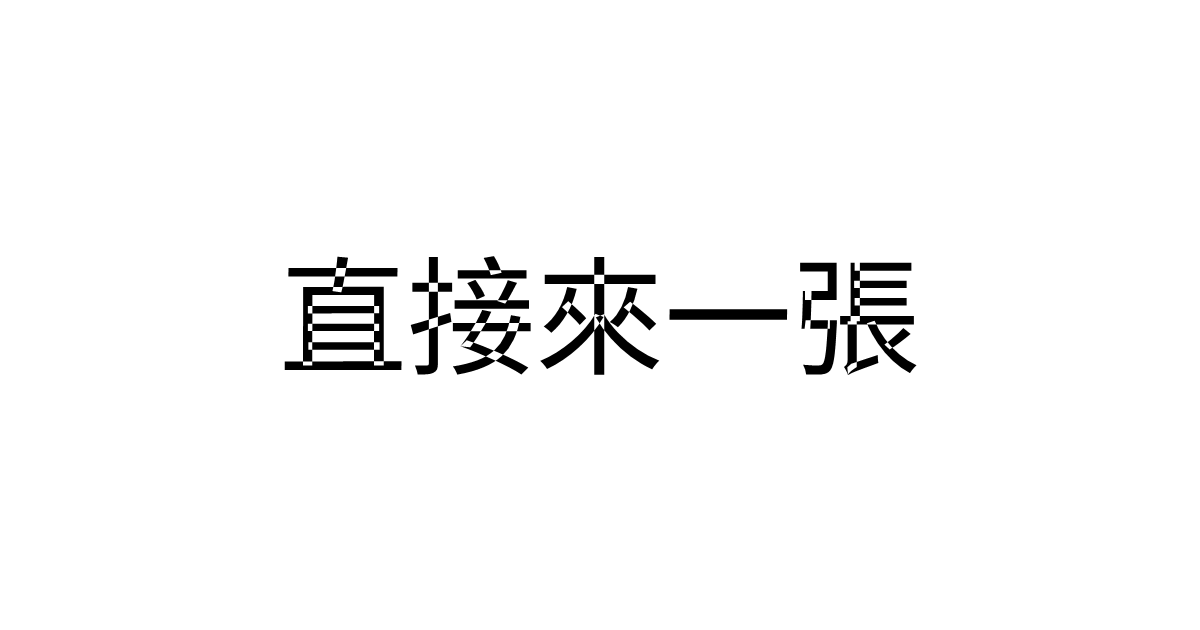
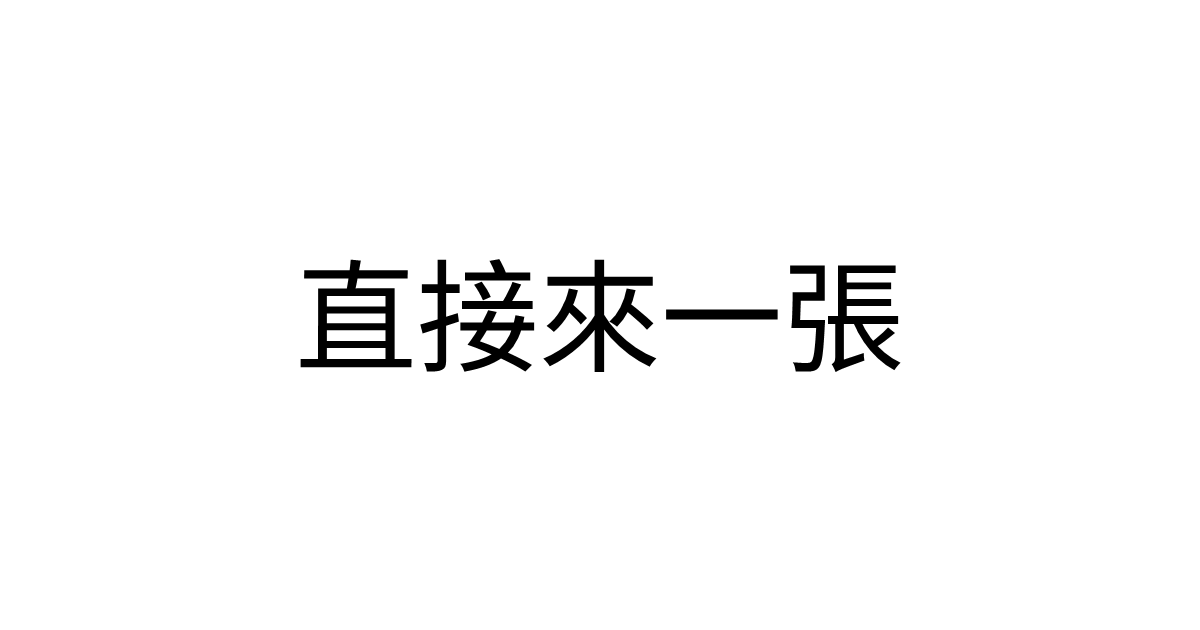
og-random.png 重畫：填色模式錯了，不是字型錯
GraphicsPath 預設 FillMode.Alternate，中日韓字筆畫輪廓大量重疊，
重疊處被判成洞，把「接」「張」切出白色橫紋。改成 Winding 後實心。
比對「心情選歌」重畫版與 og-quiz.png 確認字型字重本來就對（Noto Sans TC
Regular；Medium/Bold 的墨水量差 +10.6%/+32.7%，Regular 只差 -6.6%）。
順手把字級改成用墨水寬定尺寸：五字 x 120px = 600px，與既有兩張同一套。

Changed region(s): [[0.2158, 0.3921, 0.7708, 0.6032]]

diff --git a/PROJECT_MEMORY.md b/PROJECT_MEMORY.md
@@ -1,5 +1,26 @@
 # dip vinyl 專案備忘錄
 
+### 2026-08-16（後續）｜dip-vinyl-shop｜og-random.png 重畫：填色模式錯了，不是字型錯
+
+店主看到第一版說「字體完全搞錯了，要跟心情選歌一樣」。
+
+**真正的原因是填色規則，不是字型**：`GraphicsPath` 預設 `FillMode.Alternate`，
+中日韓字的筆畫輪廓大量重疊，重疊處被判成洞，於是「接」「張」被切出白色橫紋，
+看起來像另一套壞掉的字。改成 `FillMode.Winding` 後筆畫實心。
+
+**有查證才敢下這個結論**：用同一支腳本畫「心情選歌」，與站上 `og-quiz.png` 比對——
+Noto Sans TC／HK／JP 三者的字形疊圖與參考幾乎重合（IoU 都約 52%，差距來自 1–2px
+描邊位移與 rasterizer 的 AA 門檻，不是字形差異；同字高下墨水量差 4–7%，
+而 Medium 差 +10.6%、Bold 差 +32.7%，所以參考字重確實是 Regular）。
+站是 zh-Hant，維持 **Noto Sans TC Regular**。
+
+**順手把字級對齊成一套**：既有兩張是四字，每字寬 og-genre-v3 122px、og-quiz 117px；
+新標題是五字，若照舊用「字高 119」會變成每字 126px 偏大。改成用**墨水寬**定尺寸：
+每字 120px × 5 = 600px（em≈121.9，字高 113，介於既有兩張之間），置中於 (600, 315)。
+三張並排看是同一套（對照圖 `scratchpad/og-set.png`）。
+
+**檔案**：`og-random.png` 重畫覆蓋（樁頁與 `shareGpResult` 分流上一筆已完成，未再更動）。
+
 ### 2026-08-16（後續）｜dip-vinyl-shop｜「直接來一張」補上專屬分享縮圖（OG）
 
 店主：直接來一張分享出去的縮圖，要跟類型挑片／心情選歌一樣有張簡潔縮圖。
